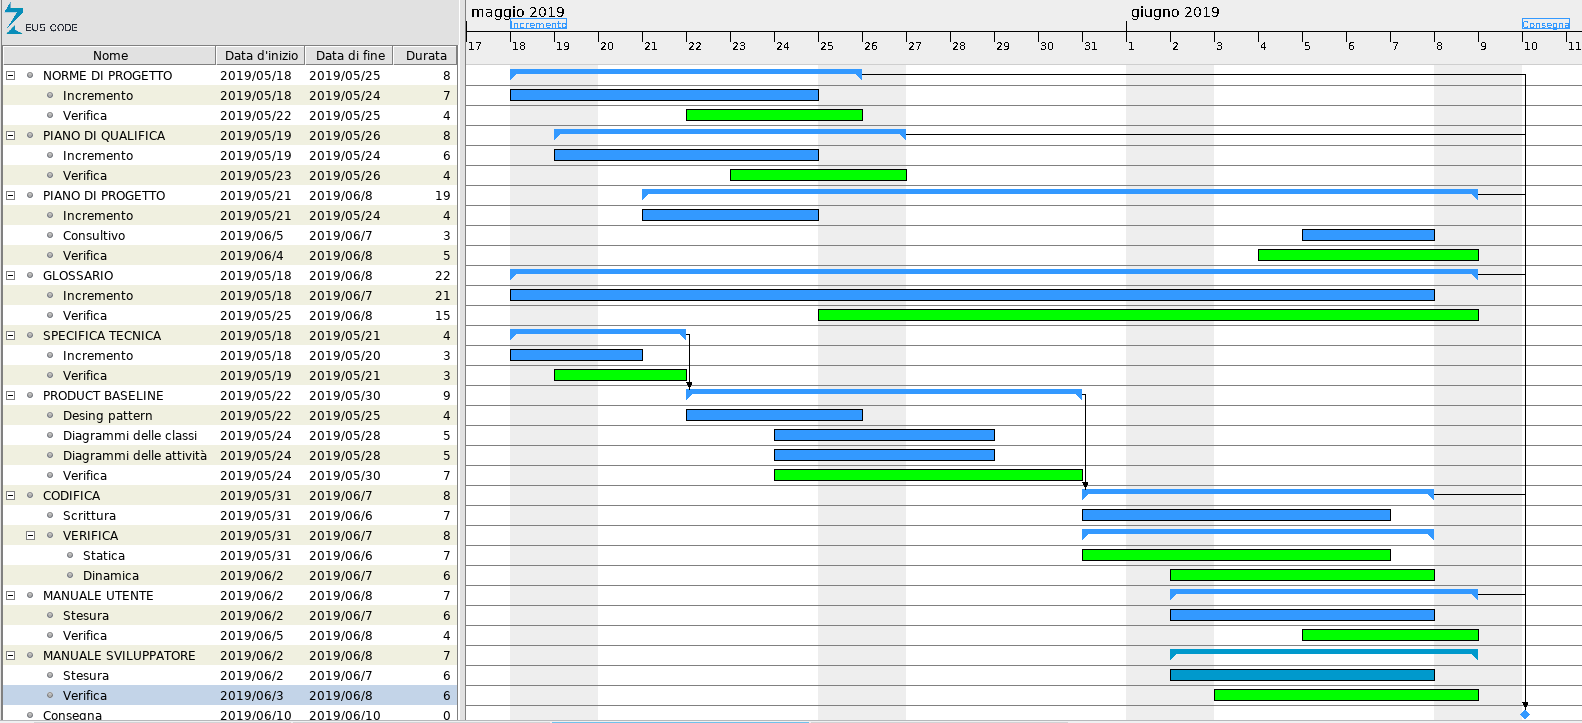
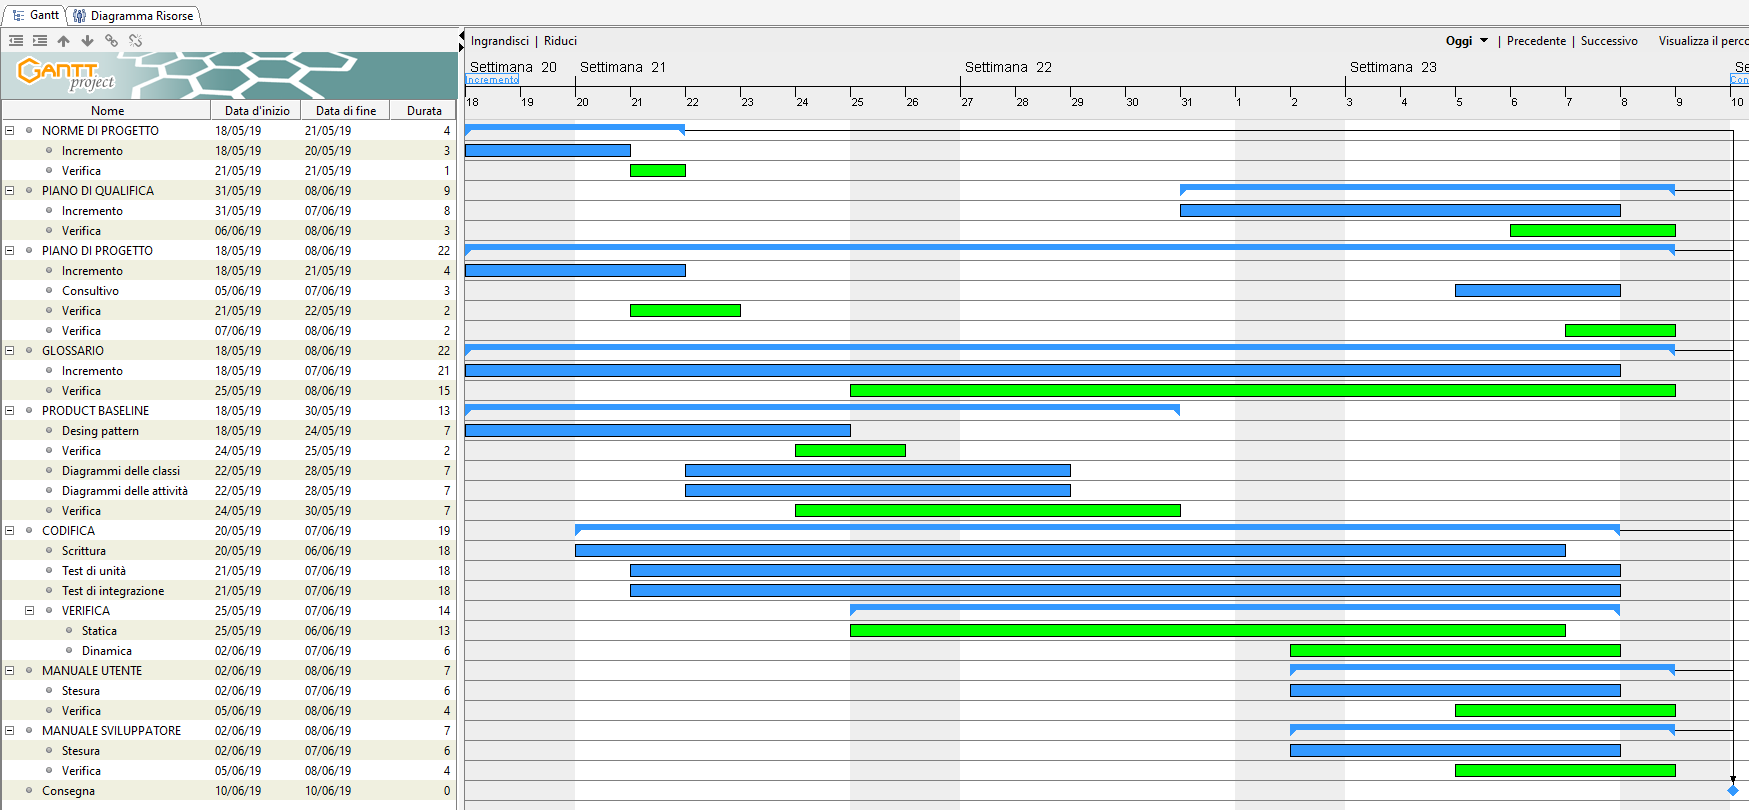
pdp finito

diff --git a/RQ/Esterni/Piano_di_progetto/res/sections/05-Planning.tex b/RQ/Esterni/Piano_di_progetto/res/sections/05-Planning.tex
@@ -168,7 +168,7 @@ Viene riportata di seguito la tabella del tracciamento incremento-casi d’uso, 
 Con il seguente diagramma andiamo a specificare nel dettaglio la pianificazione della codifica degli incrementi individuati.
 
 \begin{figure}[H]
-	%\includegraphics[width=0.99\linewidth]{res/images/dettaglio_codifica.png}
+	\includegraphics[width=0.99\linewidth]{res/images/dettaglio_codifica.png}
 	\caption{Diagramma di Gantt del dettaglio della codifica RQ}
 \end{figure}
 
